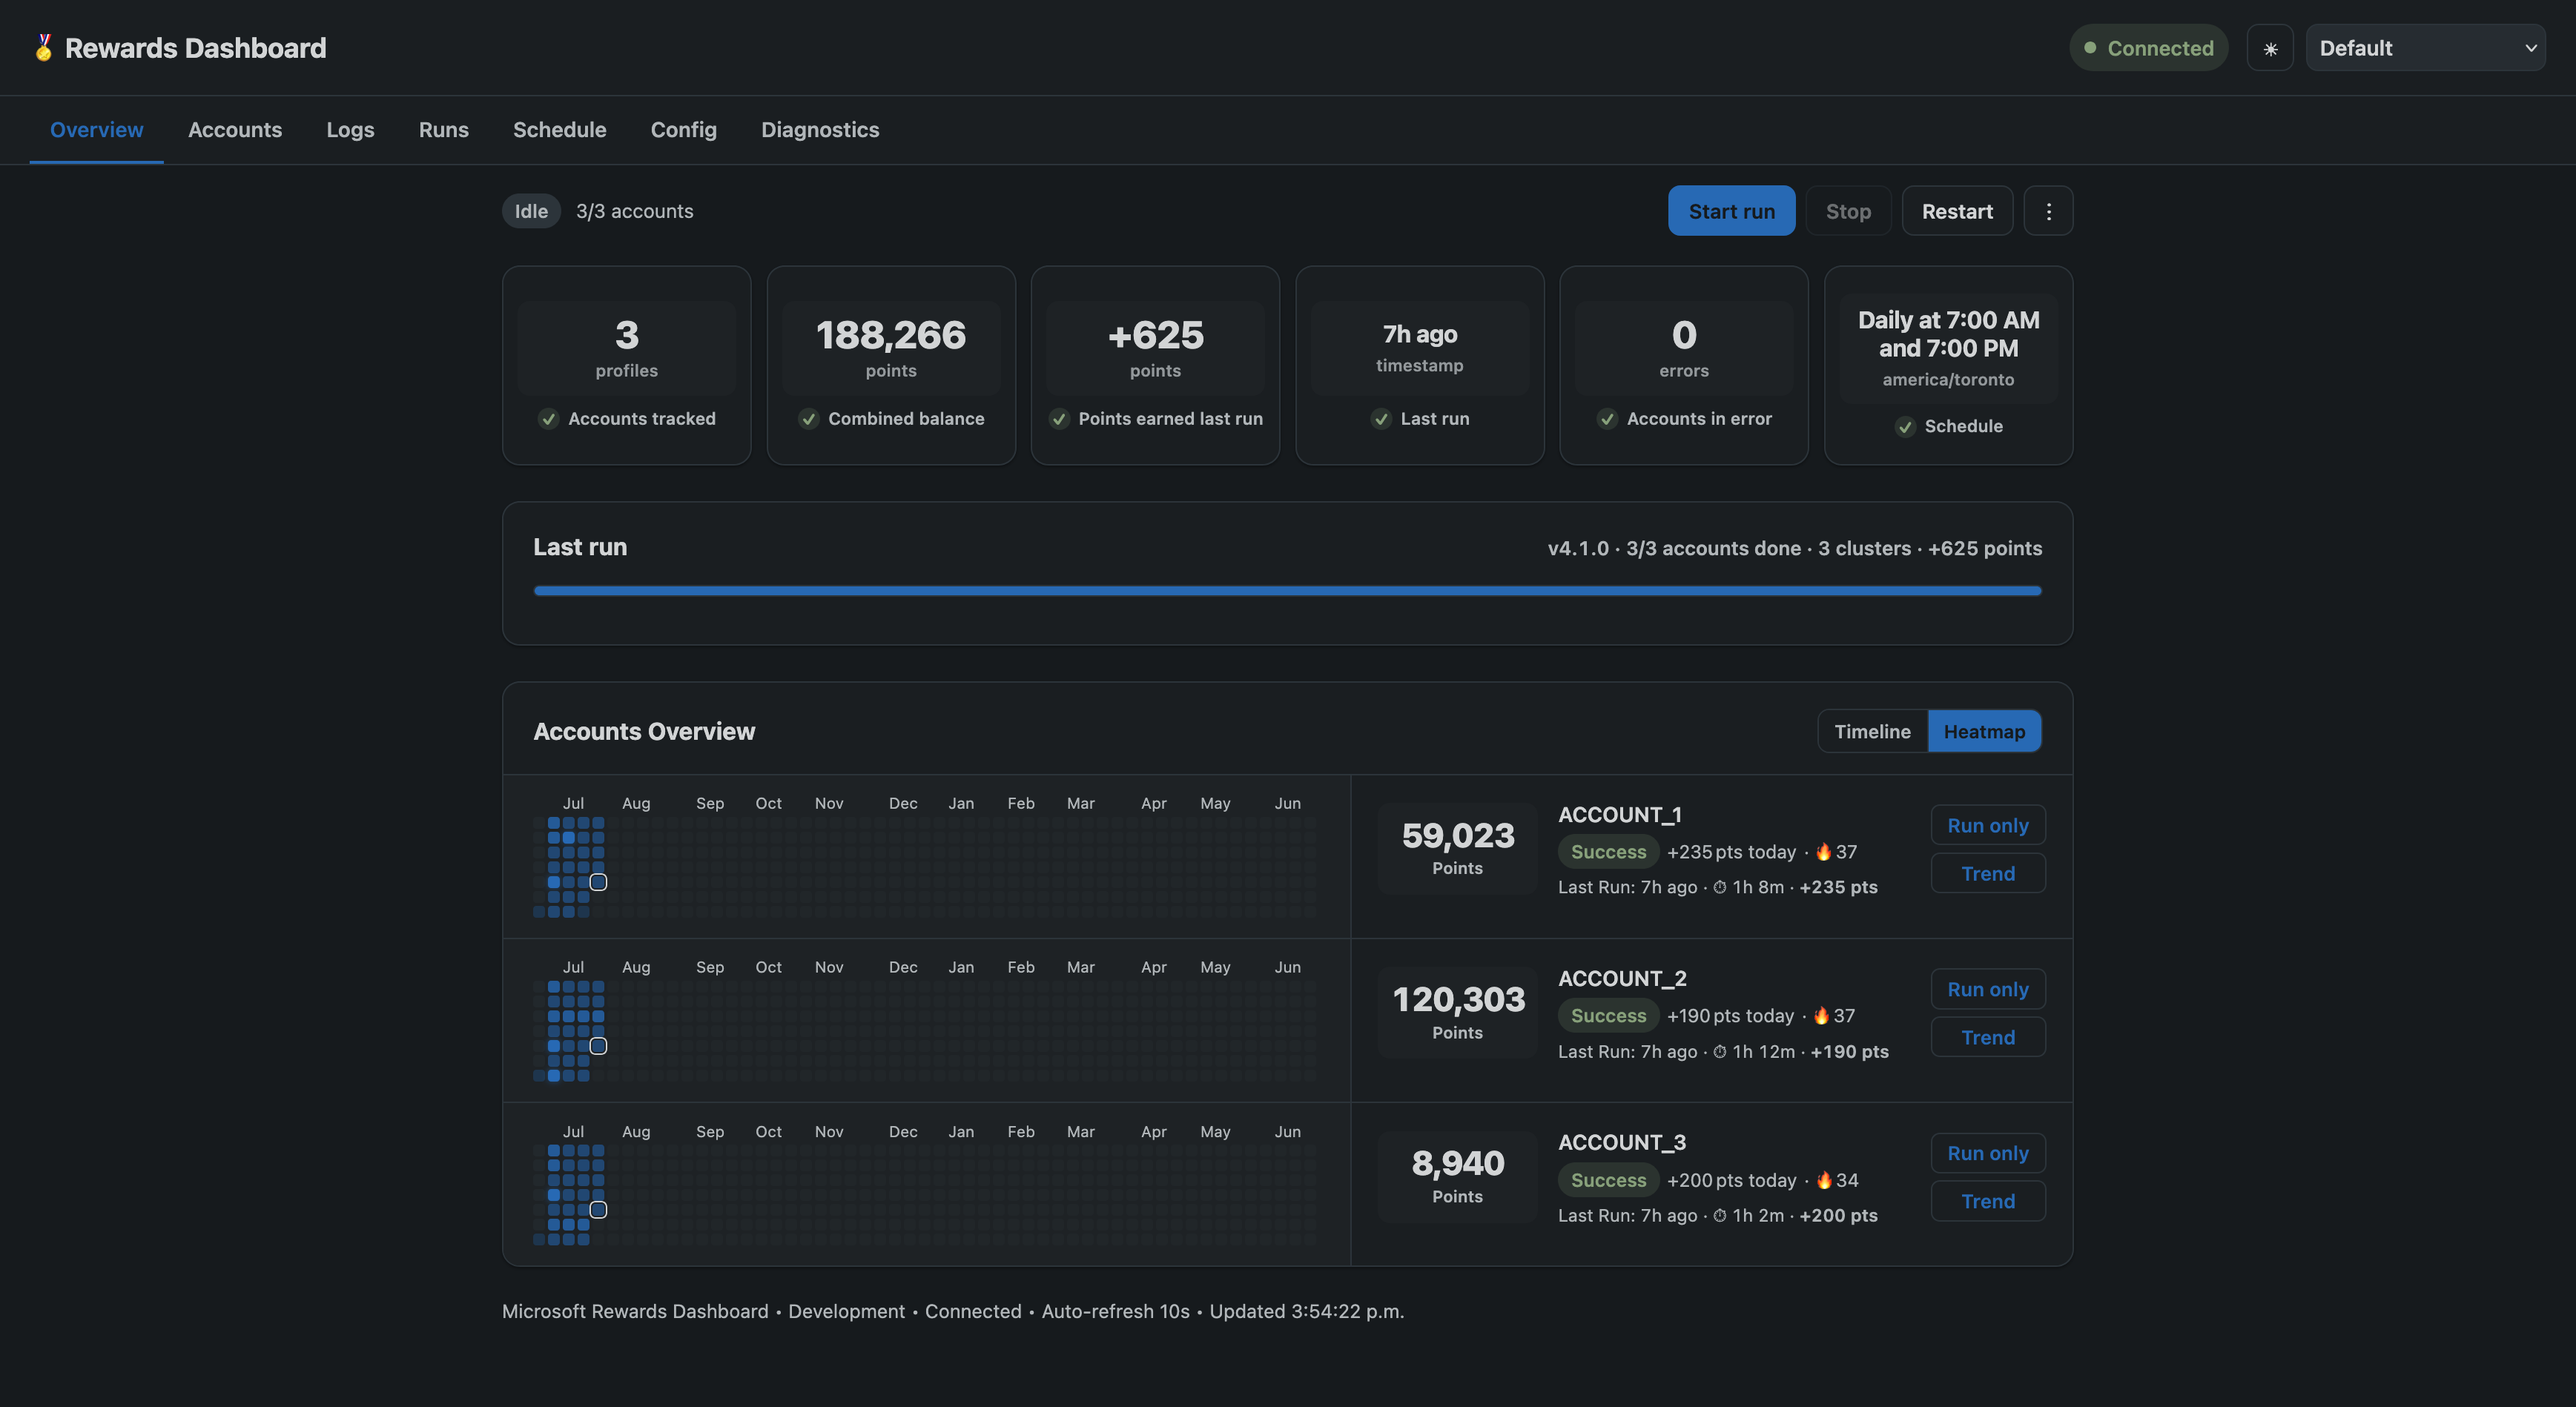
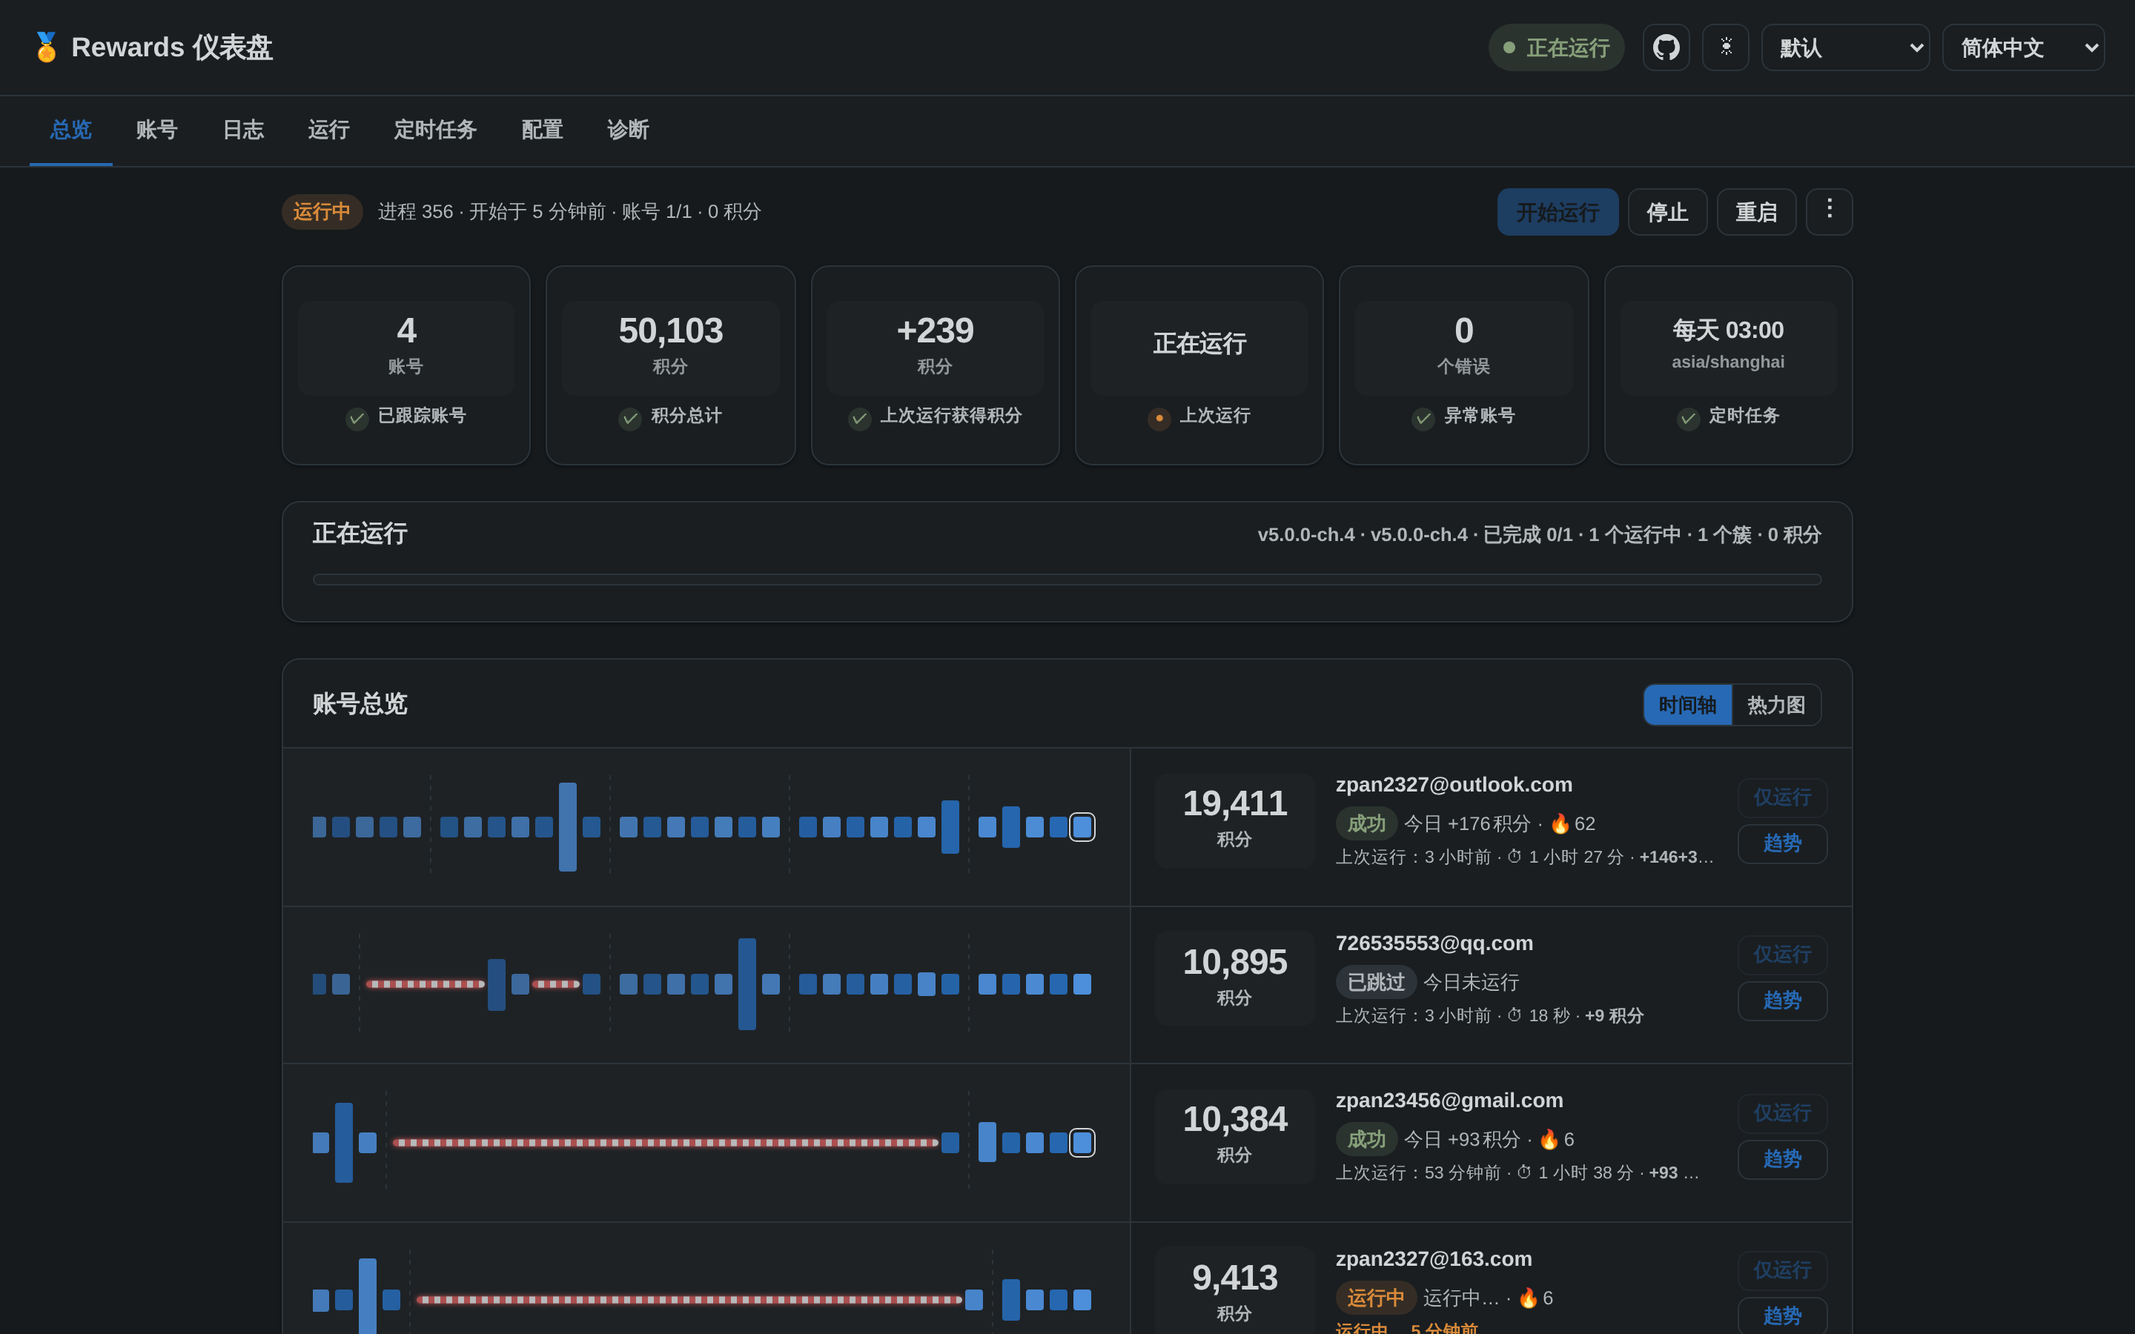
docs: 新增界面预览与实机截图，补充 i18n.7 文案说明
- README：新增「界面预览」（总览 / 实时日志 / 移动端），版本配套改为脚本 5.0.0-ch.4 ↔ 面板 v2.0.1-i18n.7
- README.en.md：截图说明改为「默认简体中文界面」，补实时日志图与版本配套链接
- docs：刷新 Screenshot-dash.png / Screenshot-mobile.png（原为 v4.1.0 英文界面），新增 Screenshot-logs.png
- docs：新增 CHANGELOG-v2.0.1-i18n.7.md

diff --git a/README.md b/README.md
@@ -21,6 +21,18 @@
 - **另外独立维护了一处 `lib/parser.js` 的中文日志解析补丁**，让总览页能正确解析中文日志（与本仓库的 i18n 无关）：见 [docs/parser-zh.md](./docs/parser-zh.md)；
 - **除语言相关内容、以及上面那处 `lib/parser.js` 中文日志解析补丁外，没有改动任何功能、接口或数据结构**：API 路径与请求/响应格式、鉴权逻辑、数据处理、Scheduler/Cron、Rewards Script 控制、Docker 部署方式全部保持原样；
 
+### 界面预览
+
+脚本 `5.0.0-ch.4` + 仪表盘 `v2.0.1-i18n.7` 的实机截图（深色模式、简体中文）：
+
+![仪表盘总览：运行状态、积分统计、账号时间轴与热力图](./docs/Screenshot-dash.png)
+
+![实时日志：界面中文、数据层英文，可按级别与关键词过滤](./docs/Screenshot-logs.png)
+
+<p align="center">
+  <img src="./docs/Screenshot-mobile.png" alt="移动端视图" width="300" />
+</p>
+
 ### 配套脚本（推荐）
 
 本仓库是 **[zPan2327/Microsoft-Rewards-Script-Ch](https://github.com/zPan2327/Microsoft-Rewards-Script-Ch)**
@@ -31,8 +43,9 @@
 | [Microsoft-Rewards-Script-Ch](https://github.com/zPan2327/Microsoft-Rewards-Script-Ch) | 自动化脚本：中国热搜查询源、微信推送、中文运行摘要；日志正文保持英文原文 |
 | **rewards-dashboard-i18n**（本仓库） | 仪表盘：界面与日志的中文化（展示层字典，不改数据） |
 
-版本配套关系与安装步骤见
-[脚本侧的发布说明](https://github.com/zPan2327/Microsoft-Rewards-Script-Ch/blob/v5-china/docs/release-notes-v5.0.0-ch.2.md)。
+当前配套版本：脚本 `5.0.0-ch.4` ↔ 仪表盘 `v2.0.1-i18n.7`。安装步骤见
+[脚本侧 README](https://github.com/zPan2327/Microsoft-Rewards-Script-Ch/blob/v5-china/README.md)，
+逐版本变化见[脚本侧 CHANGELOG](https://github.com/zPan2327/Microsoft-Rewards-Script-Ch/blob/v5-china/CHANGELOG.md)。
 
 > English readers: see **[README.en.md](./README.en.md)** — the same guide in English.
 

diff --git a/docs/CHANGELOG-v2.0.1-i18n.7.md b/docs/CHANGELOG-v2.0.1-i18n.7.md
@@ -1,0 +1,38 @@
+# v2.0.1-i18n.7
+
+配套脚本：**5.0.0-ch.4**（修复中国大陆环境下的 Bing 搜索超时，并修正移动搜索配额口径）
+
+## 新增译文
+
+| 原文（`message` 字段，保持英文）                                                            | 中文渲染                                 |
+| ------------------------------------------------------------------------------------------- | ---------------------------------------- |
+| `Not offered in the latest account data; the service did not provide an eligibility reason` | 该账号最新数据中未提供此活动（服务端未给出原因） |
+
+## 背景
+
+配套脚本 ch.4 起，账号数据里没有 `mobileSearch` 计数时（中国区账号普遍如此），搜索配额记为
+`skipped` / `offer-not-present`，日志原文由
+
+```text
+Mobile search quota | completion not confirmed | quota unavailable
+```
+
+变为
+
+```text
+Mobile search quota | unavailable (skipped) | points earned: 0 | Not offered in the latest account data; ...
+```
+
+`unavailable (skipped)` 此前已有译文，缺的是这条新出现的原因句。本次补上后整行可完整中文化：
+
+> 移动端搜索配额 | 不可用（已跳过） | 获得积分：0 | 该账号最新数据中未提供此活动（服务端未给出原因）
+
+## 文档
+
+- README 新增「界面预览」：截图更新为 `v2.0.1-i18n.7` + 脚本 `5.0.0-ch.4` 的实机画面（总览 / 实时日志 / 移动端）。
+- `docs/Screenshot-dash.png`、`docs/Screenshot-mobile.png` 原为 v4.1.0 时代的英文界面，已一并替换；
+  新增 `docs/Screenshot-logs.png`，展示「界面中文、数据层英文」的双语契约。
+
+## 测试
+
+`npm test` 22 项通过。新增用例断言该日志整行渲染为中文，且不再出现 `completion not confirmed`。

diff --git a/README.en.md b/README.en.md
@@ -48,8 +48,9 @@ This repo is the **official companion dashboard** for
 | [Microsoft-Rewards-Script-Ch](https://github.com/zPan2327/Microsoft-Rewards-Script-Ch) | The automation script: China hot-search queries, WeChat push, Chinese run summaries — log bodies stay in the English original |
 | **rewards-dashboard-i18n** (this repo) | The dashboard: Chinese for the UI **and** the logs (presentation-layer dictionary; data untouched) |
 
-Version pairing and install steps:
-[release notes for `5.0.0-ch.2`](https://github.com/zPan2327/Microsoft-Rewards-Script-Ch/blob/v5-china/docs/release-notes-v5.0.0-ch.2.md).
+Current pairing: script `5.0.0-ch.4` <-> dashboard `v2.0.1-i18n.7`. Install steps:
+[script-side README](https://github.com/zPan2327/Microsoft-Rewards-Script-Ch/blob/v5-china/README.md),
+per-version changes: [script-side CHANGELOG](https://github.com/zPan2327/Microsoft-Rewards-Script-Ch/blob/v5-china/CHANGELOG.md).
 
 > The documents under `docs/` are written in Chinese. This file is the English guide
 > for this fork; the Chinese original is [README.md](./README.md).
@@ -62,7 +63,9 @@ Version pairing and install steps:
 | --- | --- |
 | ![Desktop screenshot](./docs/Screenshot-dash.png) | ![Mobile screenshot](./docs/Screenshot-mobile.png) |
 
-*(Screenshots show the English UI; the Chinese UI uses the same layout with translated labels.)*
+![Live logs](./docs/Screenshot-logs.png)
+
+*(Screenshots come from the default Simplified Chinese UI; the English UI uses the same layout with translated labels - switch languages with the selector in the top-right corner.)*
 
 ---
 
